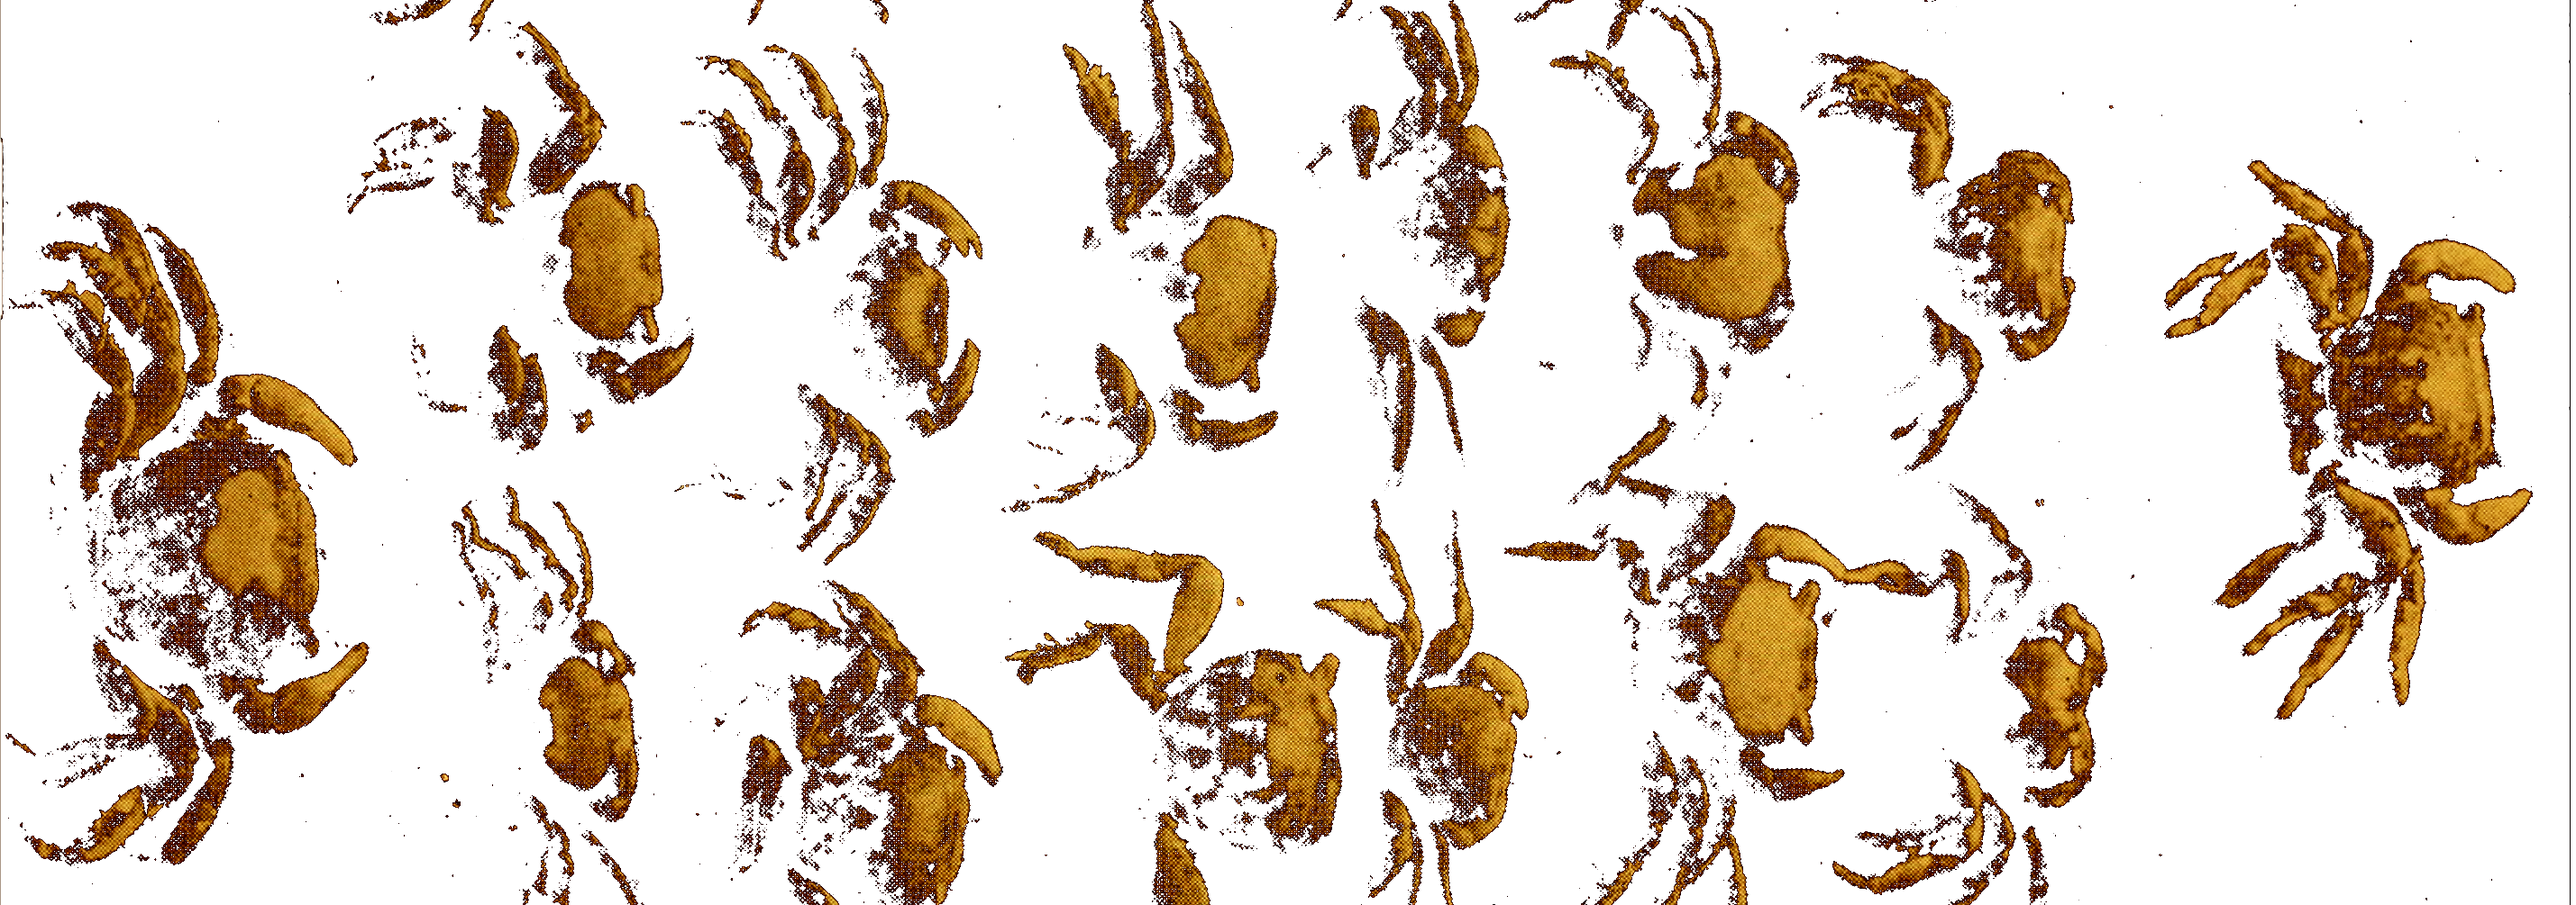
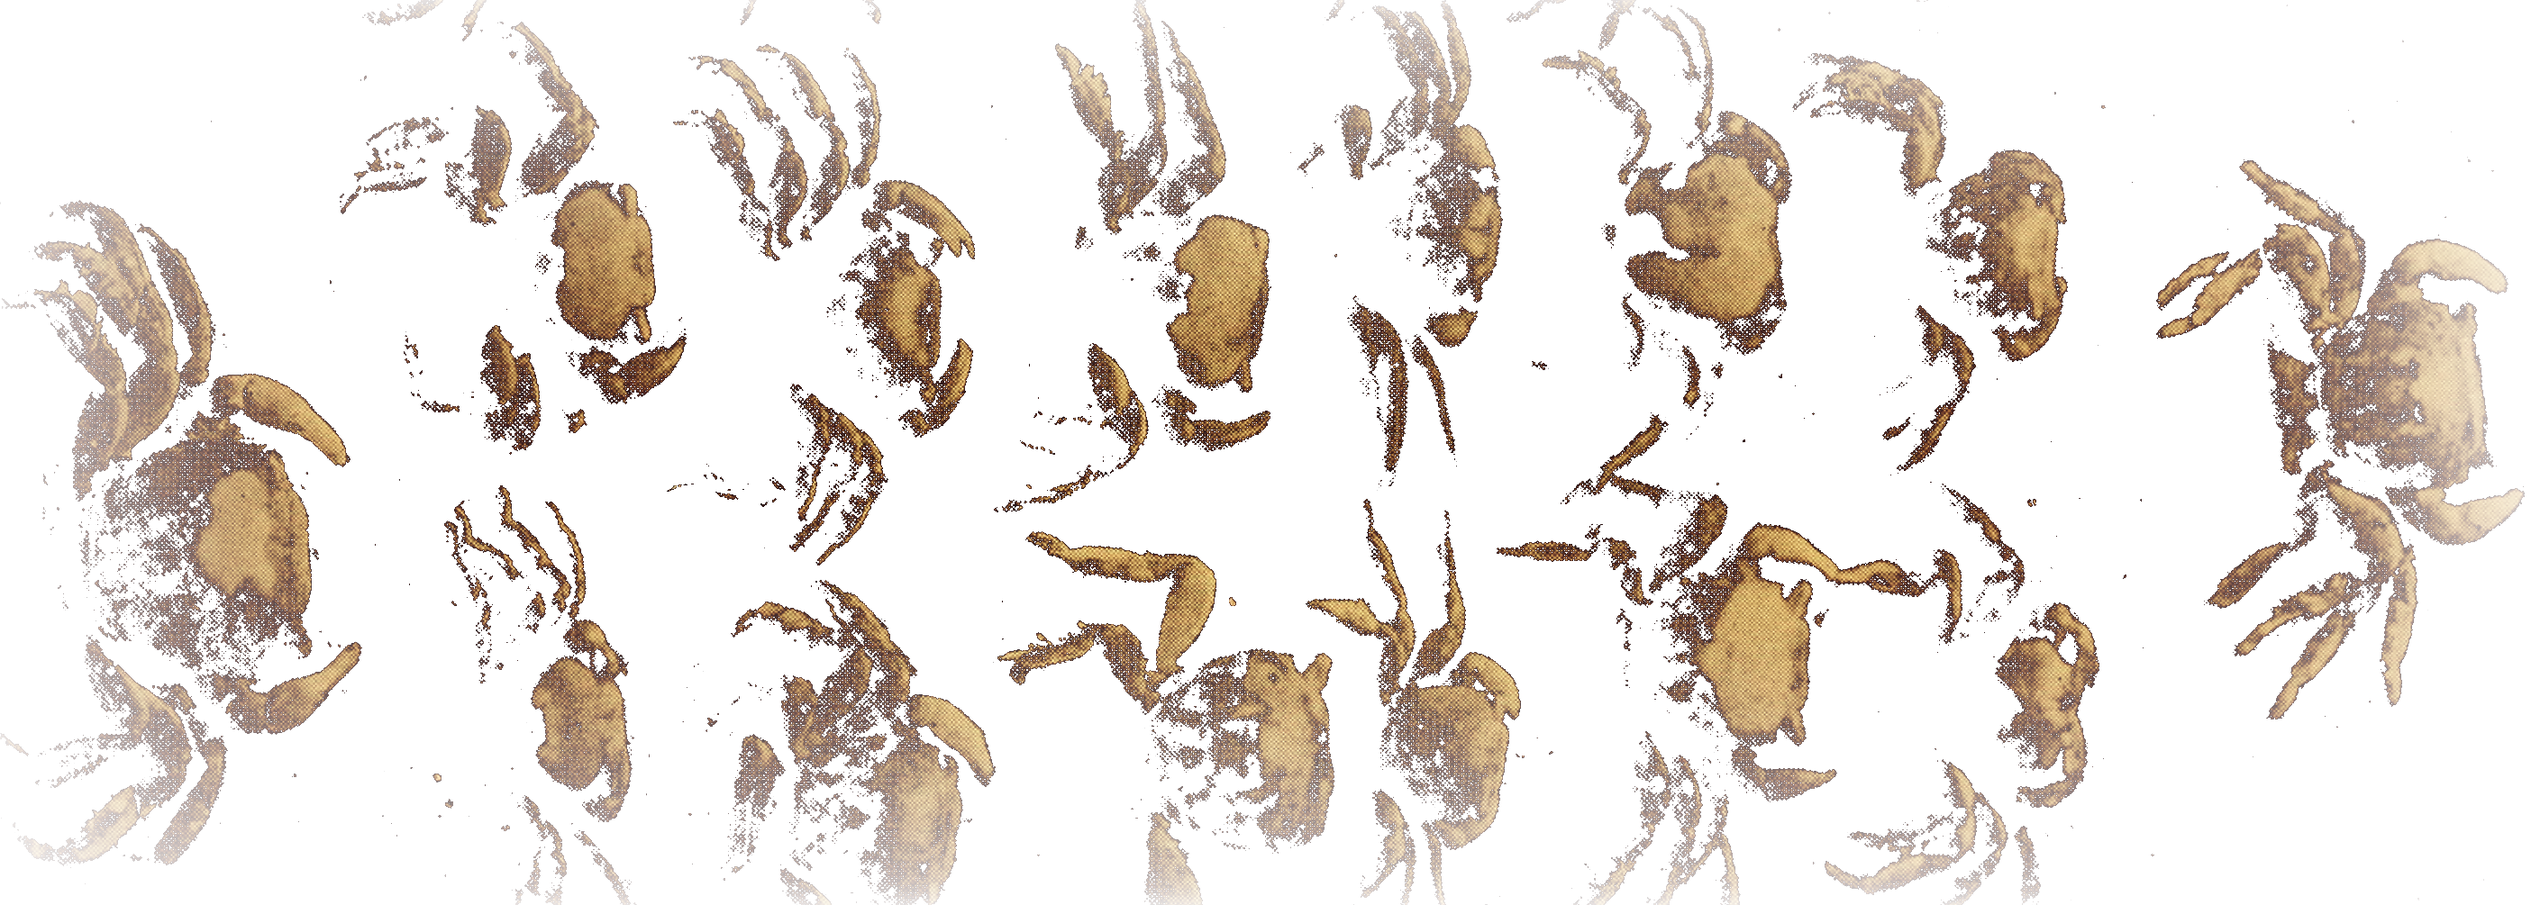
Crabs update

diff --git a/shcaa.html b/shcaa.html
@@ -59,7 +59,7 @@
           </div>
         </section>
 
-        <div class="vertical-gallery">
+        <div class="vertical-gallery" style="max-width:100%">
           <img src="assets/crabs-beige.png" alt="" class="lightbox-trigger" style="width:100%">
         </div>
 
